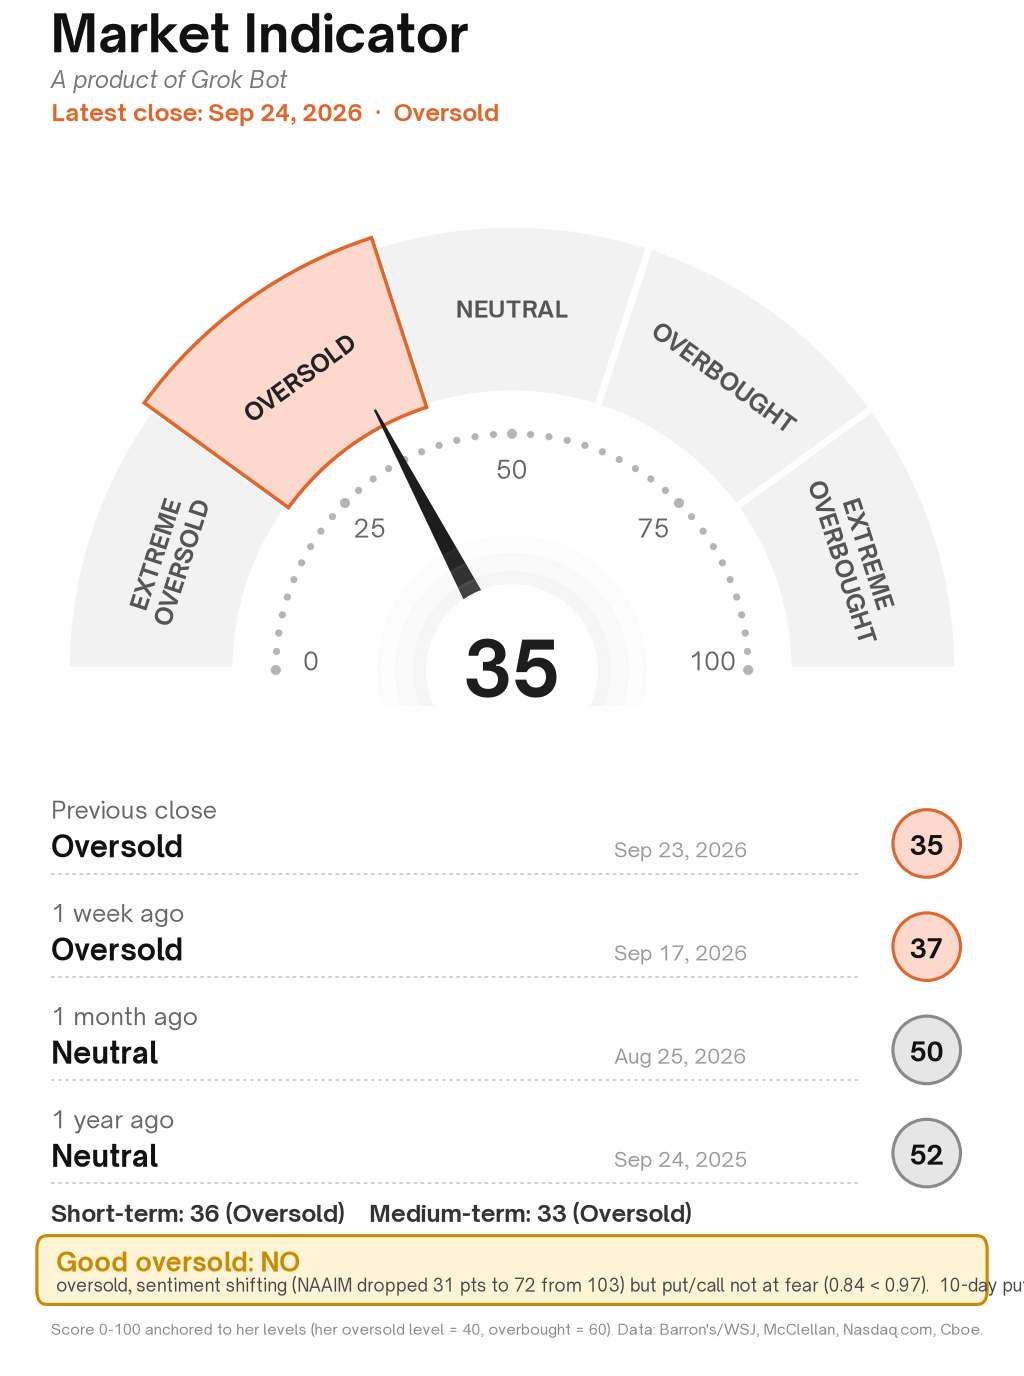
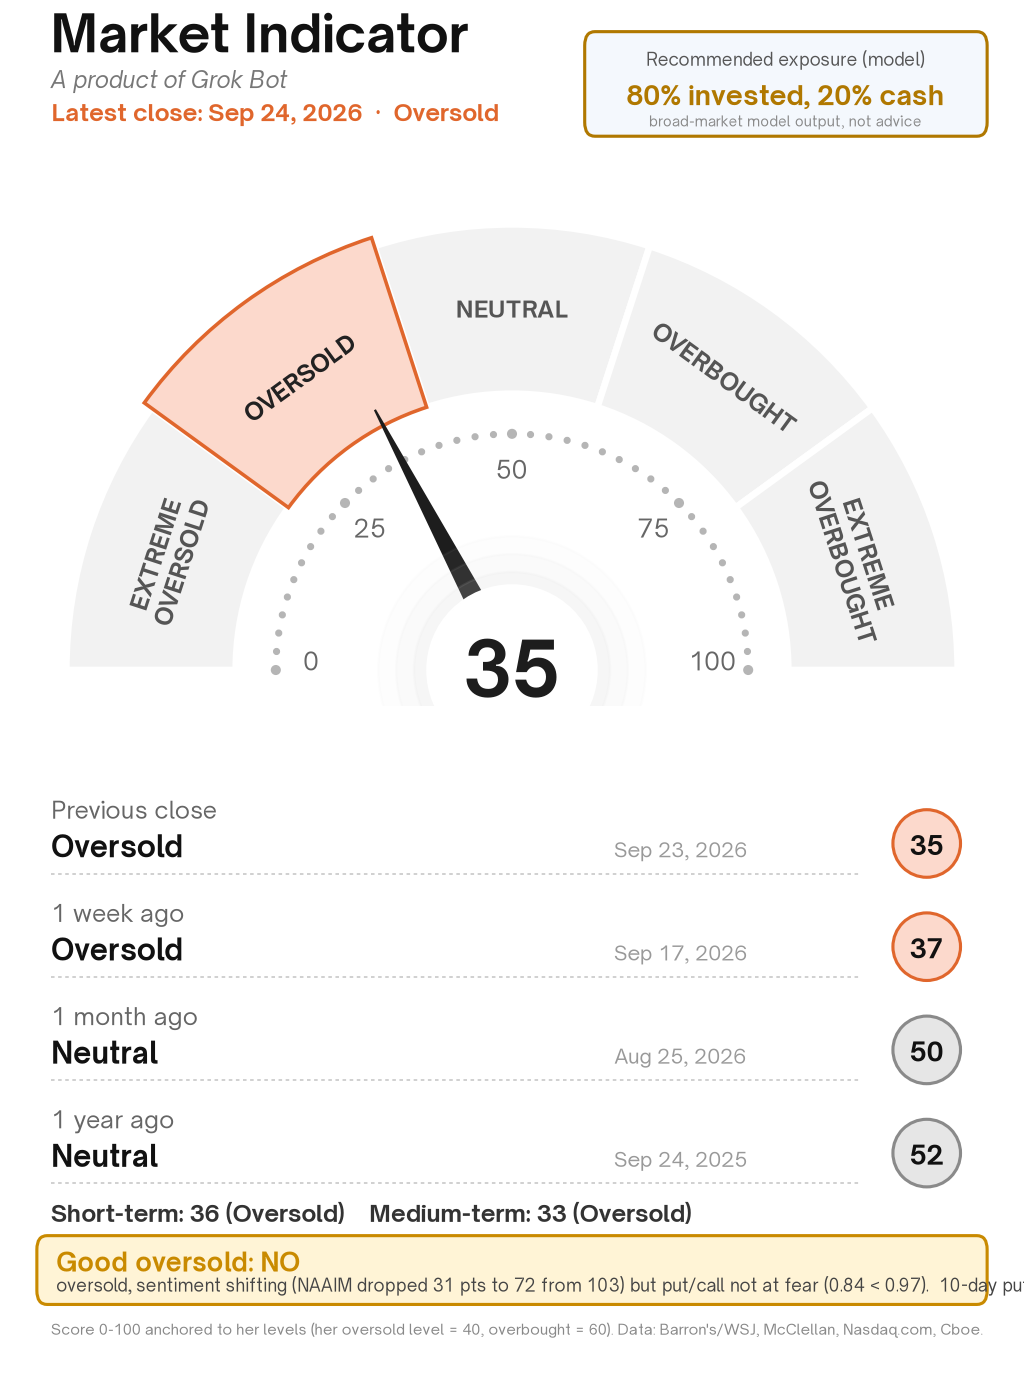
Update 2026-09-25 15:11 EDT

Changed region(s): [[0.5625, 0.0312, 0.9688, 0.0938]]

diff --git a/index.html b/index.html
@@ -41,6 +41,11 @@ a{color:#7fb3ff}
 .sent{margin-top:10px;border-top:1px dashed #5a4a25;padding-top:8px;font-size:13.5px}.sent .nv{font-size:22px;font-weight:800}.sent .lab{font-weight:700}
 .gate.yes .sent{border-top-color:#2c6b58}
 .hdr{display:flex;justify-content:space-between;align-items:center;flex-wrap:wrap;gap:6px}
+.expo{margin:10px 0 4px;border:2px solid #4f9cf0;border-radius:12px;padding:12px 14px;background:#132236}
+.expo .el{font-size:12px;letter-spacing:.08em;text-transform:uppercase;color:var(--mut)}.expo .ev{font-size:26px;font-weight:800;margin:2px 0}
+.expo.lev{border-color:#1fb58f;background:#10281f}.expo.cash{border-color:#f0b93a;background:#2a2412}
+.expo .er{font-size:13.5px}.expo .ed{font-size:11.5px;color:var(--mut);margin-top:6px}.expo details{margin-top:6px;font-size:12.5px}
+.expo table{font-size:12.5px;margin-top:4px}.expo td,.expo th{padding:4px 6px}
 svg text{font-family:inherit}
 @media(max-width:600px){table{font-size:13px}td.s{white-space:normal}.tag{font-size:11px}th,td{padding:8px 4px}.desc{font-size:11px}header h1{font-size:26px}}
 </style>
@@ -59,6 +64,10 @@ svg text{font-family:inherit}
     <h2>Composite breadth gauge</h2>
     <svg id="gauge" viewBox="0 0 440 270" width="100%"></svg>
     <div style="text-align:center;margin-top:-4px">Now: <span id="curzone" class="zone"></span> · Good oversold: <b id="gflag2"></b></div>
+    <div class="expo" id="expo" style="display:none"><div class="el">Recommended exposure (model output)</div><div class="ev" id="expov"></div>
+      <div class="er" id="expor"></div><div class="er" id="expog" style="color:#f0b93a"></div>
+      <details><summary>Exposure ladder and rules</summary><table><thead><tr><th>State</th><th>Exposure</th><th>Why</th></tr></thead><tbody id="expol"></tbody></table><div class="ed" id="exporules"></div></details>
+      <div class="ed" id="expod"></div></div>
     <div class="subs">
       <div class="card"><h2>Short-term</h2><svg id="gST" viewBox="0 0 440 270" width="100%"></svg><div id="stz" class="zone"></div></div>
       <div class="card"><h2>Medium-term</h2><svg id="gMT" viewBox="0 0 440 270" width="100%"></svg><div id="mtz" class="zone"></div></div>
@@ -84,6 +93,7 @@ svg text{font-family:inherit}
   Each component's score is anchored so that <b>her own oversold level = 40</b> (the edge of the Oversold zone) and her overbought level = 60; "Extreme" is reserved for readings beyond what she called merely oversold.
   Weights: NYSE Oscillator 40%, Nasdaq Momentum 10%, 30-day A-D 14.3%, net-needed 14.3%, Volume Indicator 7.1% (formula unconfirmed, bias-adjusted), Hi-Lo NYSE 7.1%, Hi-Lo Nasdaq 7.1%.
   <b>Good oversold</b> (her rule) = short-term AND medium-term oversold AND bearish sentiment (10-day total put/call ≥ .97, "top of the page"; or .92–.97 confirmed by the NAAIM Exposure Index in fear, ≤ 65). NAAIM feeds only this flag, never the score; a bare "Oversold" reading without it is not her buy signal.
+  <b>Recommended exposure</b> is a model output about broad US-market exposure (gross, for a book with beta ≈ 1), derived from this breadth/sentiment state: 100% when overbought or neutral (don't chase when overbought), 80% invested / 20% cash when oversold but not a good oversold, 1.25x on a good oversold (100% if only the NAAIM tiebreak fires), with hold rules and leverage guards. It is not personal advice and not a portfolio risk model; the backtest covers only Feb 2024–Sep 2026 with 3 good-oversold episodes and did not beat a static 100% on Sharpe.
   Updated Sep 25, 2026 after an independent review.
   Not investment advice. <span id="src"></span>
   <br>Static charts: <a href="obos_gauge.png">gauge</a> · <a href="obos_gauge_components.png">components</a> · <a href="obos_score_history.png">history</a> · <a href="obos_dashboard.png">dashboard</a> · <a href="data.json">data.json</a>
@@ -137,6 +147,11 @@ function hist(){const svg=document.getElementById('hist');svg.innerHTML='';if(!D
 function render(d){D=d;
   document.getElementById('stamp').innerHTML=`As of <b>${esc(d.as_of_label)} close</b> · last updated <b>${esc(d.generated_label)}</b>`;
   const c=d.composite;gauge(document.getElementById('gauge'),c.score,false);
+  const X=d.recommended_exposure;if(X){const b=document.getElementById('expo');b.style.display='';b.className='expo'+(X.exposure>1?' lev':(X.exposure<1?' cash':''));
+    document.getElementById('expov').textContent=X.label;document.getElementById('expor').textContent=X.state+': '+X.reason+' (as of '+X.as_of+' close; act next session)';
+    document.getElementById('expog').textContent=X.guard?('Guard active: '+X.guard):'';
+    document.getElementById('expol').innerHTML=X.ladder.map(r=>'<tr><td>'+esc(r.state)+'</td><td><b>'+esc(r.label)+'</b></td><td class="desc">'+esc(r.reason)+'</td></tr>').join('');
+    document.getElementById('exporules').textContent=X.rules;document.getElementById('expod').textContent=X.disclaimer;}
   const cz=document.getElementById('curzone');cz.textContent=`${c.zone} (${c.score==null?'n/a':c.score.toFixed(1)})`;cz.className='zone z'+zi(c.score);
   gauge(document.getElementById('gST'),d.short_term.score,true);gauge(document.getElementById('gMT'),d.medium_term.score,true);
   for(const [id,o] of [['stz',d.short_term],['mtz',d.medium_term]]){const e=document.getElementById(id);e.textContent=o.zone;e.className='zone z'+zi(o.score)}
